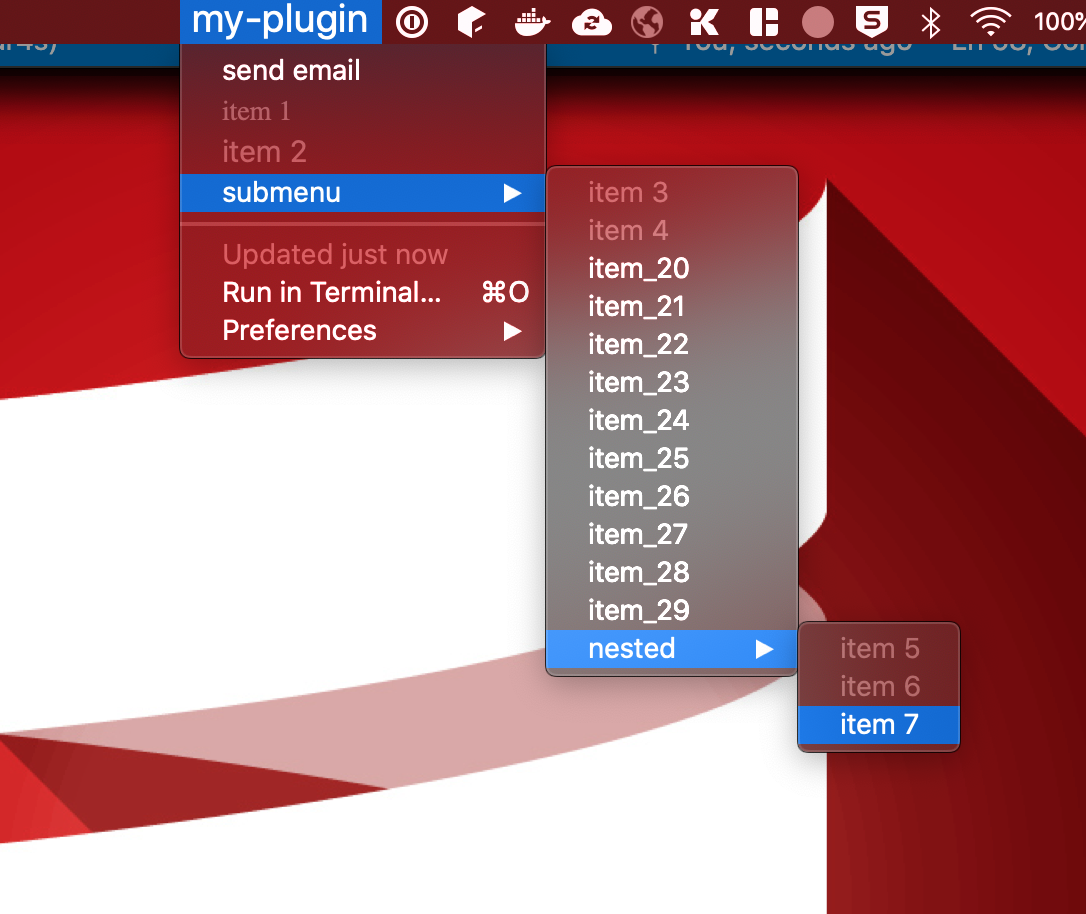
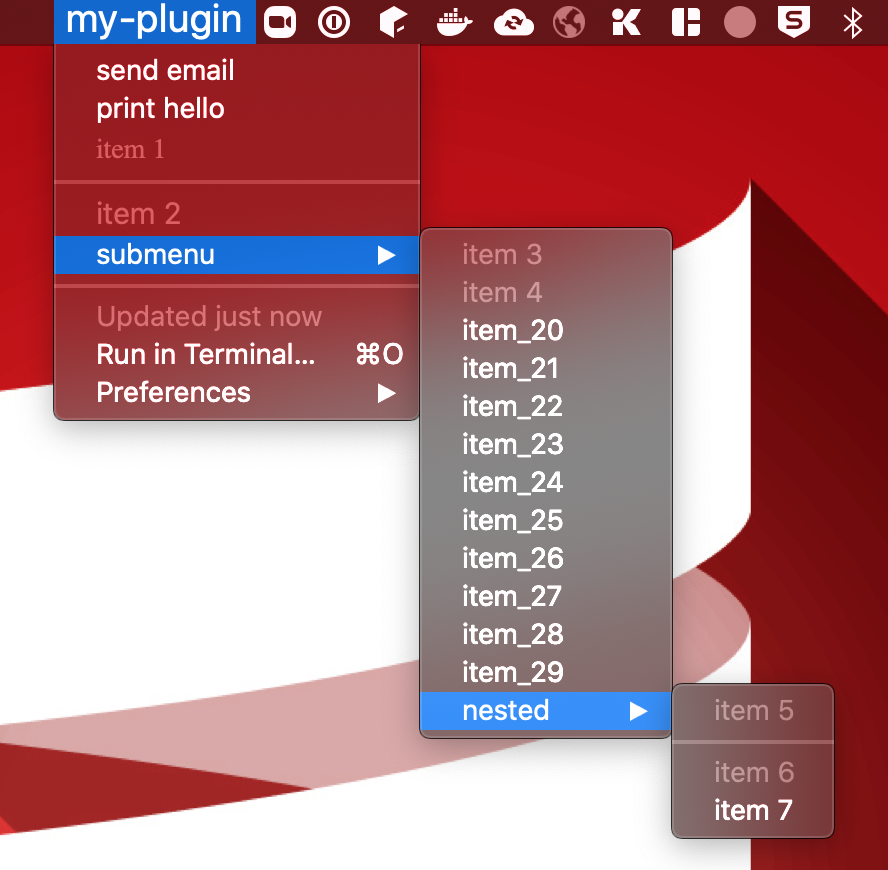
update readme

diff --git a/README.md b/README.md
@@ -10,7 +10,7 @@ This is not published to maven yet
 
 ## Usage
 
-- create an `object` and extend from `BitBarApp with BitBarDsl2`
+- create an `object` and extend from `BitBarApp with BitBarDsl`
 
 - override `pluginName`
 
@@ -36,9 +36,11 @@ override val handler: Handler = {
 - Use the dsl to create menu items either statically for dynamically. Example:
 
 ```scala
-  override val appMenu = menu("my-plugin", color = "red", textSize = 20) {
+  override val appMenu = menu("my-plugin", color = if(isDarkMode) "white" else "red", textSize = 20) {
     action("send email", "send-email", Some("abc@xyz.com"), true)
+    action("print hello", "print-hello", showTerminal = true)
     text("item 1", font = "Times")
+    ---
     text("item 2", textSize = 15)
     subMenu("submenu"){
       text("item 3")
@@ -48,6 +50,7 @@ override val handler: Handler = {
       }
       subMenu("nested", color = "orange"){
         text("item 5")
+        ---
         text("item 6")
         shellCommand("item 7", "echo", showTerminal = true ,params = "hello world", "sds")
       }
